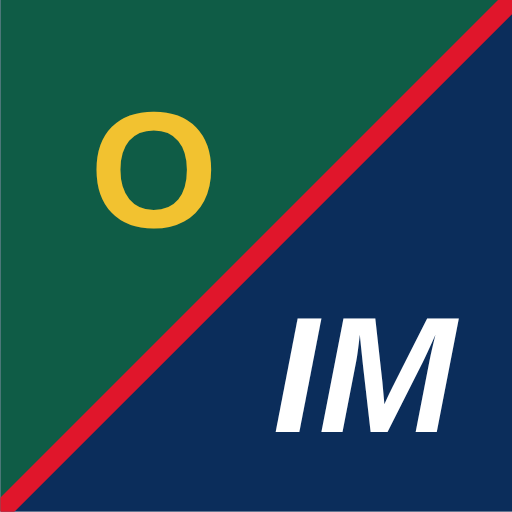
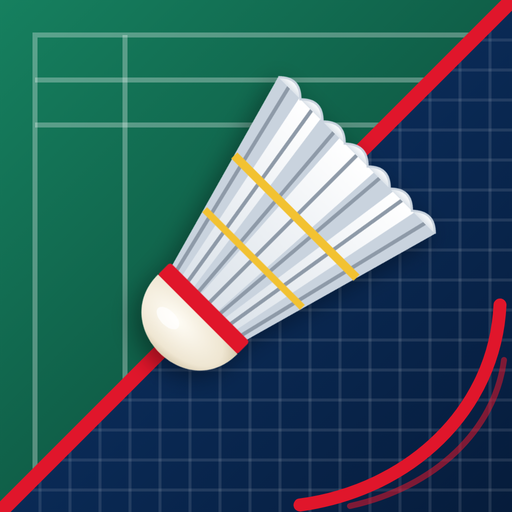
Icono rehecho (pista del club, cordaje de IDERMAY y volante) y quitado el manifest para que el iPhone use el icono al anadir a inicio
Claude-Session: https://claude.ai/code/session_01VUDtysXaZ2Zfb6VqimNWUg

diff --git a/index.html b/index.html
@@ -3,12 +3,11 @@
 <head>
 <link rel="preconnect" href="https://fonts.googleapis.com"><link rel="preconnect" href="https://fonts.gstatic.com" crossorigin><link rel="stylesheet" href="https://fonts.googleapis.com/css2?family=Barlow+Condensed:ital,wght@0,600;0,700;1,700;1,800&display=swap">
 <meta charset="UTF-8">
-<meta name="build-id" content="v20261008-icono">
+<meta name="build-id" content="v20261008-icono2">
 <meta name="viewport" content="width=device-width, initial-scale=1.0">
 <title>Bádminton</title>
-<link rel="apple-touch-icon" href="apple-touch-icon.png?v=2">
-<link rel="icon" type="image/png" sizes="32x32" href="favicon-32.png?v=2">
-<link rel="manifest" href="manifest.webmanifest">
+<link rel="apple-touch-icon" sizes="180x180" href="https://gerardoortega74-rgb.github.io/Badminton_Olimpia/apple-touch-icon.png">
+<link rel="icon" type="image/png" sizes="32x32" href="favicon-32.png">
 <meta name="apple-mobile-web-app-title" content="Bádminton">
 <meta name="application-name" content="Bádminton">
 <meta name="theme-color" content="#0F5C46">
